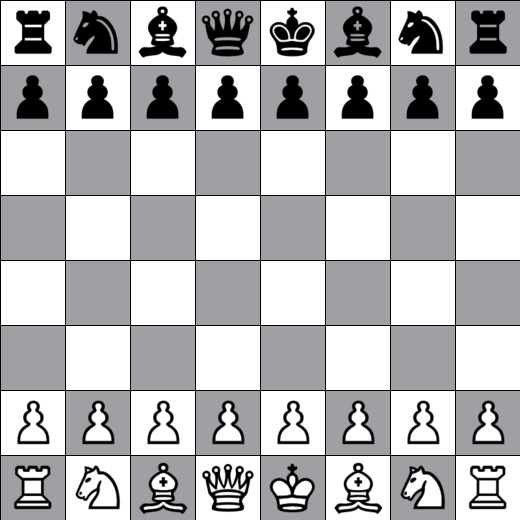
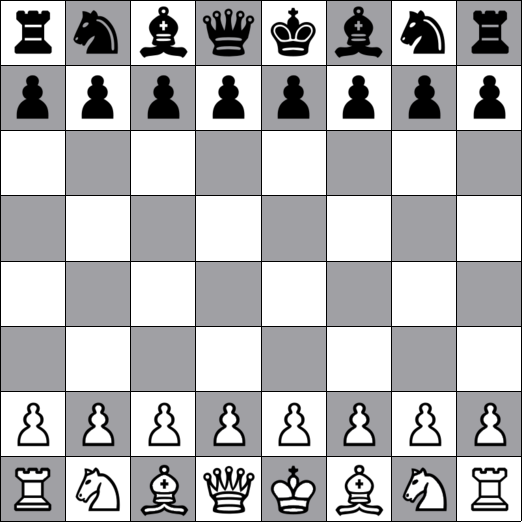
Trying to fix pixel margin.

Changed region(s): [[0.0, 0.0, 1.0, 1.0], [0.6769, 0.0, 0.7077, 0.0308]]

diff --git a/mainwindow.cpp b/mainwindow.cpp
@@ -141,6 +141,8 @@ void MainWindow::drawBoard()
         else isWhite = true;
     }
 
+    scene->addRect(0, 0, 519, 519, QPen(Qt::black));
+
     int row =0, col=0;
 
     for(int col = 0; col < 8; col++)
@@ -232,7 +234,11 @@ void MainWindow::on_pushButton_2_clicked()
 
 void MainWindow::on_pushButton_clicked()
 {
-    QImage image(scene->sceneRect().size().toSize(), QImage::Format_ARGB32);
+    QSize size;
+    size = scene->sceneRect().size().toSize();
+    size.setWidth( size.width() + 2 );
+    size.setHeight( size.height() + 2 );
+    QImage image( size , QImage::Format_ARGB32);
     image.fill(Qt::transparent);
 
     QPainter painter(&image);
